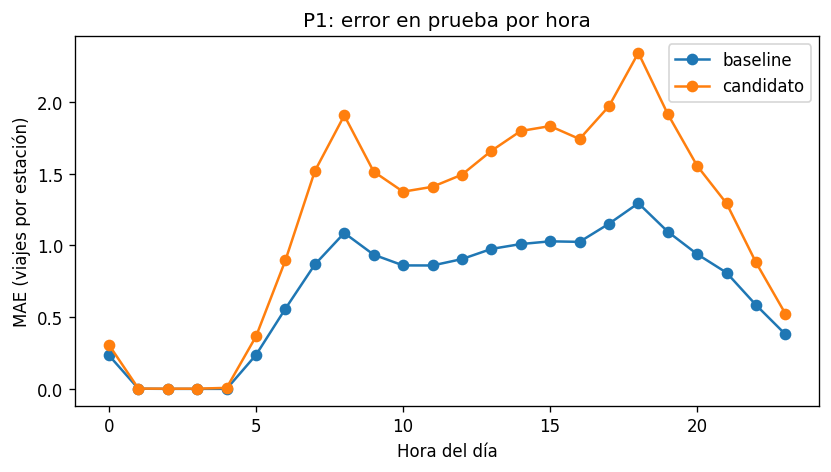
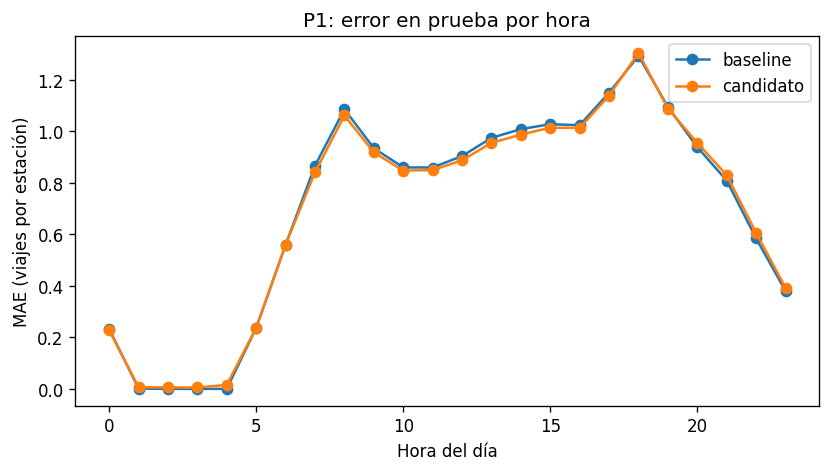
feat: controlador comun y candidato de P1 con estacion
- train.py corre P1 y P2 y se detiene sin tablas o con cambios sin commit
- MLproject main y Makefile usan el controlador
- P1: TargetEncoder de estacion + HGB Poisson (100 iteraciones, como la propuesta)
- val_mae 0.7122 vs 0.7119 del baseline; se conserva el baseline
- predict.py importa con el config vigente

diff --git a/mibici_equipo39/modeling/p1.py b/mibici_equipo39/modeling/p1.py
@@ -9,6 +9,7 @@ import numpy as np
 import pandas as pd
 from sklearn.ensemble import HistGradientBoostingRegressor
 from sklearn.metrics import mean_absolute_error, root_mean_squared_error
+from sklearn.preprocessing import TargetEncoder
 
 from mibici_equipo39 import config as C
 from mibici_equipo39 import plots
@@ -35,8 +36,32 @@ class SeasonalMeanBaseline:
         return pred.fillna(self.global_).to_numpy()
 
 
-def make_candidate():
-    return HistGradientBoostingRegressor(**C.P1_HGB_PARAMS)
+ENCODED = ["te_station", "te_station_day_hour"]
+
+
+class StationEncodedHGB:
+    """HGB con calendario y media de salidas por estación y estación-día-hora ajustada solo en train.
+
+    TargetEncoder usa validación cruzada dentro de train, así ninguna fila ve su propio objetivo
+    y ningún día reservado entra a X.
+    """
+
+    def _keys(self, frame):
+        station = frame["station_id"].astype(str)
+        return pd.DataFrame({
+            "te_station": station,
+            "te_station_day_hour": station + "|" + frame["day_of_week"].astype(str) + "|" + frame["hour_of_day"].astype(str),
+        })
+
+    def fit(self, frame, y):
+        self.encoder_ = TargetEncoder(target_type="continuous", cv=5, shuffle=True, random_state=C.SEED)
+        encoded = pd.DataFrame(self.encoder_.fit_transform(self._keys(frame), y), columns=ENCODED, index=frame.index)
+        self.model_ = HistGradientBoostingRegressor(**C.P1_HGB_PARAMS).fit(pd.concat([frame[FEATURE_COLUMNS], encoded], axis=1), y)
+        return self
+
+    def predict(self, frame):
+        encoded = pd.DataFrame(self.encoder_.transform(self._keys(frame)), columns=ENCODED, index=frame.index)
+        return np.clip(self.model_.predict(pd.concat([frame[FEATURE_COLUMNS], encoded], axis=1)), 0, None)
 
 
 def regression_metrics(y, pred, split):
@@ -49,7 +74,7 @@ def regression_metrics(y, pred, split):
 
 
 class P1Experiment:
-    """Baseline estacional contra HistGradientBoosting con calendario sin rezagos."""
+    """Baseline estacional contra HGB con calendario y codificación de estación, sin rezagos."""
 
     def __init__(self, metadata, X, y):
         keep = metadata["station_id"].isin(eligible_stations(metadata, y)).to_numpy()
@@ -59,13 +84,10 @@ class P1Experiment:
         self.train = self.metadata["split"].eq("train").to_numpy()
 
     def fit(self):
-        frame = pd.concat([self.metadata, self.X[["day_of_week", "hour_of_day"]]], axis=1)
+        frame = pd.concat([self.metadata, self.X], axis=1)
         self.baseline = SeasonalMeanBaseline().fit(frame[self.train], self.y[self.train])
-        self.candidate = make_candidate().fit(self.X.loc[self.train, FEATURE_COLUMNS], self.y[self.train])
-        self.predictions = {
-            "baseline": self.baseline.predict(frame),
-            "candidato": np.clip(self.candidate.predict(self.X[FEATURE_COLUMNS]), 0, None),
-        }
+        self.candidate = StationEncodedHGB().fit(frame[self.train], self.y[self.train])
+        self.predictions = {"baseline": self.baseline.predict(frame), "candidato": self.candidate.predict(frame)}
         self.metrics = {k: regression_metrics(self.y.to_numpy(), p, self.metadata["split"]) for k, p in self.predictions.items()}
         self.selected = "candidato" if self.metrics["candidato"]["val_mae"] < self.metrics["baseline"]["val_mae"] else "baseline"
         return self
@@ -77,7 +99,7 @@ class P1Experiment:
     def log(self, executor):
         runs = {
             "baseline": ("P1-baseline-media-estacion-dia-hora", {"model": "seasonal_mean_station_dow_hour"}),
-            "candidato": ("P1-candidato-hgb", {"model": "HistGradientBoostingRegressor", "features": ",".join(FEATURE_COLUMNS), **C.P1_HGB_PARAMS}),
+            "candidato": ("P1-candidato-hgb-estacion", {"model": "HistGradientBoostingRegressor+TargetEncoder", "features": ",".join(FEATURE_COLUMNS + ENCODED), **C.P1_HGB_PARAMS}),
         }
         params = {**common_params(self.metadata), "min_train_departures": C.P1_MIN_TRAIN_DEPARTURES, "selected_model": self.selected}
         tags = common_tags("P1", "regression", executor, "persona2", "viajes iniciados por estación en [t, t+1)")

diff --git a/mibici_equipo39/modeling/train.py b/mibici_equipo39/modeling/train.py
@@ -1,30 +1,61 @@
-from pathlib import Path
+import argparse
+import os
 
-from loguru import logger
-from tqdm import tqdm
-import typer
+from mibici_equipo39 import config as C
+from mibici_equipo39.features import load_p2_targets, load_tables
+from mibici_equipo39.modeling.p1 import P1Experiment
+from mibici_equipo39.modeling.p2 import P2Experiment
+from mibici_equipo39.modeling.tracking import git_state
 
-from mibici_equipo39.config import MODELS_DIR, PROCESSED_DATA_DIR
+QUESTIONS = ("P1", "P2")
+REQUIRED = [
+    C.REFERENCES / "data_manifest.json",
+    C.REFERENCES / "split_manifest.json",
+    C.PROCESSED / "metadata.parquet",
+    C.PROCESSED / "X_p1.parquet",
+    C.PROCESSED / "y_p1.parquet",
+    C.PROCESSED / "y_p2.parquet",
+]
 
-app = typer.Typer()
+
+def check_inputs(allow_dirty):
+    missing = [str(p.relative_to(C.ROOT)) for p in REQUIRED if not p.exists()]
+    if missing:
+        raise SystemExit(
+            f"Faltan {missing}. Corre primero python -m mibici_equipo39.dataset --verify-manifest "
+            "y python -m mibici_equipo39.features."
+        )
+    _, dirty = git_state()
+    if dirty and not allow_dirty:
+        raise SystemExit("Hay cambios sin commit; los runs finales deben quedar ligados a un commit. Usa --allow-dirty solo para pruebas.")
 
 
-@app.command()
-def main(
-    # ---- REPLACE DEFAULT PATHS AS APPROPRIATE ----
-    features_path: Path = PROCESSED_DATA_DIR / "features.csv",
-    labels_path: Path = PROCESSED_DATA_DIR / "labels.csv",
-    model_path: Path = MODELS_DIR / "model.pkl",
-    # -----------------------------------------
-):
-    # ---- REPLACE THIS WITH YOUR OWN CODE ----
-    logger.info("Training some model...")
-    for i in tqdm(range(10), total=10):
-        if i == 5:
-            logger.info("Something happened for iteration 5.")
-    logger.success("Modeling training complete.")
-    # -----------------------------------------
+def run(questions, member):
+    metadata, X, y = load_tables()
+    results = {}
+    if "P1" in questions:
+        experiment = P1Experiment(metadata, X, y).fit()
+        experiment.log(member)
+        results["P1"] = experiment
+    if "P2" in questions:
+        experiment = P2Experiment(metadata, X, load_p2_targets()).fit()
+        experiment.log(member)
+        results["P2"] = experiment
+    for question, experiment in results.items():
+        print(question, "seleccionado:", experiment.selected)
+    return results
+
+
+def main():
+    parser = argparse.ArgumentParser(description="Controlador común de experimentos MiBici")
+    parser.add_argument("--question", choices=[*QUESTIONS, "all"], default="all")
+    parser.add_argument("--member", choices=["persona1", "persona2", "persona3", "persona4"],
+                        default=os.environ.get("MIBICI_EXECUTOR", "persona1"))
+    parser.add_argument("--allow-dirty", action="store_true")
+    args = parser.parse_args()
+    check_inputs(args.allow_dirty)
+    run(QUESTIONS if args.question == "all" else (args.question,), args.member)
 
 
 if __name__ == "__main__":
-    app()
+    main()

diff --git a/mibici_equipo39/modeling/predict.py b/mibici_equipo39/modeling/predict.py
@@ -4,7 +4,7 @@ from loguru import logger
 from tqdm import tqdm
 import typer
 
-from mibici_equipo39.config import MODELS_DIR, PROCESSED_DATA_DIR
+from mibici_equipo39.config import MODELS, PROCESSED
 
 app = typer.Typer()
 
@@ -12,9 +12,9 @@ app = typer.Typer()
 @app.command()
 def main(
     # ---- REPLACE DEFAULT PATHS AS APPROPRIATE ----
-    features_path: Path = PROCESSED_DATA_DIR / "test_features.csv",
-    model_path: Path = MODELS_DIR / "model.pkl",
-    predictions_path: Path = PROCESSED_DATA_DIR / "test_predictions.csv",
+    features_path: Path = PROCESSED / "test_features.csv",
+    model_path: Path = MODELS / "model.pkl",
+    predictions_path: Path = PROCESSED / "test_predictions.csv",
     # -----------------------------------------
 ):
     # ---- REPLACE THIS WITH YOUR OWN CODE ----

diff --git a/mibici_equipo39/config.py b/mibici_equipo39/config.py
@@ -11,6 +11,7 @@ INTERIM = DATA / "interim"
 REFERENCES = ROOT / "references"
 REPORTS = ROOT / "reports"
 FIGURES = REPORTS / "figures"
+MODELS = ROOT / "models"
 TEAM = "39"
 SEED = 39
 SOURCE_START = "2025-10-01"
@@ -25,7 +26,7 @@ FEATURE_SCHEMA_VERSION = "5-random-calendar-only"
 # Se conserva el inicio del manifiesto confirmado para no cambiar la evaluación.
 FEATURES_START = "2025-10-09"
 P1_MIN_TRAIN_DEPARTURES = 100
-P1_HGB_PARAMS = {"loss": "squared_error", "learning_rate": 0.1, "max_iter": 200, "max_leaf_nodes": 31, "random_state": SEED}
+P1_HGB_PARAMS = {"loss": "poisson", "learning_rate": 0.1, "max_iter": 100, "max_leaf_nodes": 31, "random_state": SEED}
 P2_INITIAL_OCCUPANCY, P2_MARGIN = 0.50, 0.10
 P2_SENSITIVITY_OCCUPANCIES = (0.25, 0.75)
 P2_MIN_RECALL = 0.80

diff --git a/tests/test_train.py b/tests/test_train.py
@@ -1,0 +1,14 @@
+import pytest
+
+from mibici_equipo39.modeling import train
+
+
+def test_controller_stops_when_tables_are_missing(tmp_path, monkeypatch):
+    monkeypatch.setattr(train, "REQUIRED", [tmp_path / "metadata.parquet"])
+    monkeypatch.setattr(train.C, "ROOT", tmp_path)
+    with pytest.raises(SystemExit, match="mibici_equipo39.features"):
+        train.check_inputs(allow_dirty=True)
+
+
+def test_controller_covers_p1_and_p2():
+    assert train.QUESTIONS == ("P1", "P2")
